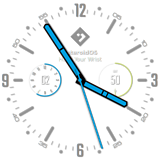
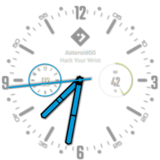
analog-commander: PR fixes
Updates WF previews.
Fixes offset issues with the hands.
Fixes whitespace issues.
Removes code in comments.
Other minor fixes.

diff --git a/analog-commander/usr/share/asteroid-launcher/watchfaces/analog-commander.qml b/analog-commander/usr/share/asteroid-launcher/watchfaces/analog-commander.qml
@@ -25,8 +25,6 @@
 import QtQuick 2.1
 import QtGraphicalEffects 1.15
 import Nemo.Mce 1.0
-import org.asteroid.controls 1.0
-import org.asteroid.utils 1.0
 
 Item {
     id: root
@@ -40,14 +38,14 @@ Item {
         id: minuteStrokes
         Rectangle {
             z: 0
-            antialiasing : true
+            antialiasing: true
             property real rotM: (index - 15) / 60
             property real centerX: root.width / 2 - width / 2
             property real centerY: root.height / 2 - height / 2
             x: index % 5 ? centerX+Math.cos(rotM * 2 * Math.PI) * parent.width * 0.430 :
                            centerX+Math.cos(rotM * 2 * Math.PI) * parent.width * 0.388
-            y: index % 5 ? centerY+Math.sin(rotM * 2 * Math.PI) * parent.width * 0.430 :
-                           centerY+Math.sin(rotM * 2 * Math.PI) * parent.width * 0.388
+            y: index % 5 ? centerY+Math.sin(rotM * 2 * Math.PI) * parent.height * 0.430 :
+                           centerY+Math.sin(rotM * 2 * Math.PI) * parent.height * 0.388
             color: index % 5 ? "#ff949494" : "#ff949494"
             radius: 60
             opacity: (index%5)==0 && displayAmbient ? 0.2
@@ -66,7 +64,7 @@ Item {
             transform: Rotation {
                 origin.x: width / 2
                 origin.y: height / 2
-                angle: (index) * 6
+                angle: index * 6
             }
         }
     }
@@ -81,21 +79,20 @@ Item {
             property real centerX: root.width / 2 - width / 2
             property real centerY: root.height / 2 - height / 2
             x: centerX+Math.cos(rotM * 2 * Math.PI) * parent.width * 0.463
-            y: centerY+Math.sin(rotM * 2 * Math.PI) * parent.width * 0.463
+            y: centerY+Math.sin(rotM * 2 * Math.PI) * parent.height * 0.463
             color: "#ff949494"
-	        opacity: displayAmbient ? 0.2
-		    	   : 0.5
-	        radius: 60
+            opacity: displayAmbient ? 0.2
+                   : 0.5
+            radius: 60
             width: parent.width * 0.022
             height: parent.height * 0.022
             transform: Rotation {
                 origin.x: width / 2
                 origin.y: height / 2
-                angle: (index) * 6
+                angle: index * 6
             }
         }
     }
-
 
 Repeater {
         id: hourNumbers
@@ -120,36 +117,36 @@ Repeater {
             text: 3 * (index === 0 ? hourNumbers.count : index)
         }
     }
-	
+
     Repeater {
     model: 60
     id: secondNumbers
         Text {
             z: 0
-            font.pixelSize: parent.height*0.030
-            font.family: "Michroma"
-            font.styleName: "Regular"
+            font {
+                family: "Michroma"
+                styleName: "Regular"
+                pixelSize: parent.height*0.030
+            }
             horizontalAlignment: Text.AlignHCenter
             property real rotM: (index - 15) / 60
             property real centerX: parent.width / 2 - width / 2
             property real centerY: parent.height / 2 - height / 2
-			property bool south: index > 15 && index < 45
+            property bool south: index > 15 && index < 45
             x: centerX + Math.cos(rotM * 2 * Math.PI) * parent.width * 0.463
-            y: centerY + Math.sin(rotM * 2 * Math.PI) * parent.width * 0.463
+            y: centerY + Math.sin(rotM * 2 * Math.PI) * parent.height * 0.463
             opacity: displayAmbient ? 0.5
                    : 0.9
             color: "#ff949494"
             transform: Rotation {
                 origin.x: width / 2
                 origin.y: height / 2
-               // angle: (index) * 6
-			    angle: (index) * 6 + (south ? 180 : 0)
+                angle: (index) * 6 + (south ? 180 : 0)
             }
-			text: (100+index).toString().substring(1)
+            text: (100+index).toString().substring(1)
 
-			//visible: (index%5)==0 && (index%15)
-			visible: [5, 10, 20, 25, 35, 40, 50, 55].includes(index)
-			
+            visible: [5, 10, 20, 25, 35, 40, 50, 55].includes(index)
+
         }
     }
 
@@ -157,7 +154,7 @@ Repeater {
         z: 1
         id: asteroidLogo
         opacity: displayAmbient ? 0.1
-			   : 0.7
+               : 0.7
         source: "../watchfaces-img/analog-commander-asteroid-logo.svg"
         antialiasing: true
         anchors {
@@ -170,8 +167,10 @@ Repeater {
         Text {
             z: 2
             id: asteroidSlogan
-            font.pixelSize: parent.height * 0.28
-            font.family: "Raleway"
+            font {
+                pixelSize: parent.height * 0.28
+                family: "Raleway"
+            }
             color: "white"
             horizontalAlignment: Text.AlignHCenter
             anchors {
@@ -183,9 +182,7 @@ Repeater {
 
         MouseArea {
             anchors.fill: parent
-            onPressAndHold: asteroidLogo.visible ?
-                                asteroidLogo.visible = false :
-                                asteroidLogo.visible = true
+            onPressAndHold: asteroidLogo.visible = !asteroidLogo.visible
         }
     }
 
@@ -195,7 +192,6 @@ Repeater {
         onMonthChanged: monthArc.requestPaint()
         anchors {
             centerIn: parent
-            verticalCenterOffset: parent.width * 0.00
             horizontalCenterOffset: -parent.width * 0.22
         }
         width: parent.width * 0.22
@@ -246,14 +242,16 @@ Repeater {
                 property bool currentMonthHighlight: Number(wallClock.time.toLocaleString(Qt.locale(), "MM")) === index ||
                                                      Number(wallClock.time.toLocaleString(Qt.locale(), "MM")) === index + 12
                 antialiasing: true
-                font.pixelSize: currentMonthHighlight ?
+                font {
+                    pixelSize: currentMonthHighlight ?
                                     root.height * 0.036 :
                                     root.height * 0.03
-                font.letterSpacing: parent.width * 0.004
-                font.family: "Teko"
-                font.styleName: currentMonthHighlight ?
+                    letterSpacing: parent.width * 0.004
+                    family: "Teko"
+                    styleName: currentMonthHighlight ?
                                     "Regular" :
                                     "Light"
+                }
                 opacity: !displayAmbient ? 1 : 0.3
                 property real rotM: ((index * 5) - 15) / 60
                 property real centerX: parent.width / 2 - width / 2
@@ -275,24 +273,23 @@ Repeater {
         Text {
             z: 2
             id: monthDisplay
-			anchors {
-				centerIn: parent
-            	verticalCenterOffset: -parent.height * -0.0200
-			}	
+            anchors {
+                centerIn: parent
+                verticalCenterOffset: -parent.height * -0.0200
+            }
             y: (parent.height + height) * -0.075
             renderType: Text.NativeRendering
-			font { 
-				pixelSize: parent.height * 0.39
-            	family: "Teko"
-            	styleName:"Light"
-            	letterSpacing: -root.width * 0.0018
-			}
+            font { 
+                pixelSize: parent.height * 0.39
+                family: "Teko"
+                styleName:"Light"
+                letterSpacing: -root.width * 0.0018
+            }
             color: "#ddffffff"
             opacity: !displayAmbient ? 1 : 0.3
             text: wallClock.time.toLocaleString(Qt.locale(), "dd").slice(0, 3)
         }
     }
-    
 
     Item {
         id: batteryBox
@@ -351,7 +348,7 @@ Repeater {
                                               "#ff23F0C7"
                                       )
                 ctx.lineWidth = root.height * 0.005
-                ctx.lineCap="round"
+                ctx.lineCap = "round"
                 ctx.strokeStyle = gradient
                 ctx.beginPath()
                 ctx.arc(parent.width / 2,
@@ -371,16 +368,16 @@ Repeater {
         Text {
             z: 2
             id: batteryDisplay
-			anchors {
-				centerIn: parent
-            	verticalCenterOffset: -parent.height * -0.0200 
-			}	
+            anchors {
+                centerIn: parent
+                verticalCenterOffset: -parent.height * -0.0200 
+            }
             renderType: Text.NativeRendering
-			font {
-				pixelSize: parent.height * 0.39
-            	family: "Teko"
-            	styleName:"Light"
-			}
+            font {
+                pixelSize: parent.height * 0.39
+                family: "Teko"
+                styleName:"Light"
+            }
             color: "#ffffffff"
             text: batteryChargePercentage.percent
             opacity: !displayAmbient ? 0.8 : 0.3
@@ -393,9 +390,11 @@ Repeater {
                      verticalCenterOffset: parent.height*0.34
                  }
                  renderType: Text.NativeRendering
-                 font.pixelSize: parent.height * 0.194
-                 font.family: "Teko"
-                 font.styleName:"Regular"
+                 font {
+                    pixelSize: parent.height * 0.194
+                    family: "Teko"
+                    styleName:"Regular"
+                 }
                  lineHeightMode: Text.FixedHeight
                  lineHeight: parent.height * 0.94
                  horizontalAlignment: Text.AlignHCenter
@@ -427,7 +426,7 @@ Repeater {
             id: hourSVG
 
             z: 3
-            source:imgPath + "hour.svg"
+            source: imgPath + "hour.svg"
             anchors.fill: parent
 
             transform: Rotation {

diff --git a/README.md b/README.md
@@ -72,7 +72,7 @@ This will start up a qmlscene tester for the named watch (`decimal-time` in this
 | ![thumbnail](.thumbnails/analog-asteroid-logo-round.webp) |![thumbnail](.thumbnails/analog-asteroid-logo.jpg) | [analog-asteroid-logo](analog-asteroid-logo/usr/share/asteroid-launcher/watchfaces/analog-asteroid-logo.qml) | [eLtMosen](https://github.com/eLtMosen) |
 | ![thumbnail](.thumbnails/analog-boombox-round.webp) |![thumbnail](.thumbnails/analog-boombox.webp) | [analog-boombox](analog-boombox/usr/share/asteroid-launcher/watchfaces/analog-boombox.qml) | [eLtMosen](https://github.com/eLtMosen) |
 | ![thumbnail](.thumbnails/analog-classy-roman-round.webp) | ![thumbnail](.thumbnails/analog-classy-roman.jpg) | [analog-classy-roman](analog-classy-roman/usr/share/asteroid-launcher/watchfaces/analog-classy-roman.qml) | [eLtMosen](https://github.com/eLtMosen) |
-| ![thumbnail](.thumbnails/analog-commander-round.webp) | ![thumbnail](.thumbnails/analog-commander.webp) | [analog-commander](analog-commander/usr/share/asteroid-launcher/watchfaces/analog-commander.qml) | [IvoHulsman](https://github.com/ivohulsman) |
+| ![thumbnail](.thumbnails/analog-commander-round.png) | ![thumbnail](.thumbnails/analog-commander.png) | [analog-commander](analog-commander/usr/share/asteroid-launcher/watchfaces/analog-commander.qml) | [IvoHulsman](https://github.com/ivohulsman) |
 | ![thumbnail](.thumbnails/analog-goldie-round.webp) |![thumbnail](.thumbnails/analog-goldie.jpg) | [analog-goldie](analog-goldie/usr/share/asteroid-launcher/watchfaces/analog-goldie.qml) | [eLtMosen](https://github.com/eLtMosen) |
 | ![thumbnail](.thumbnails/analog-duppy-vintage-round.webp) |![thumbnail](.thumbnails/analog-duppy-vintage.webp) | [analog-duppy-vintage](analog-duppy-vintage/usr/share/asteroid-launcher/watchfaces/analog-duppy-vintage.qml) | [eLtMosen](https://github.com/eLtMosen) |
 | ![thumbnail](.thumbnails/analog-halloween-round.webp) | ![thumbnail](.thumbnails/analog-halloween.jpg) | [analog-halloween](analog-halloween/usr/share/asteroid-launcher/watchfaces/analog-halloween.qml) | [beroset](https://github.com/beroset) |
